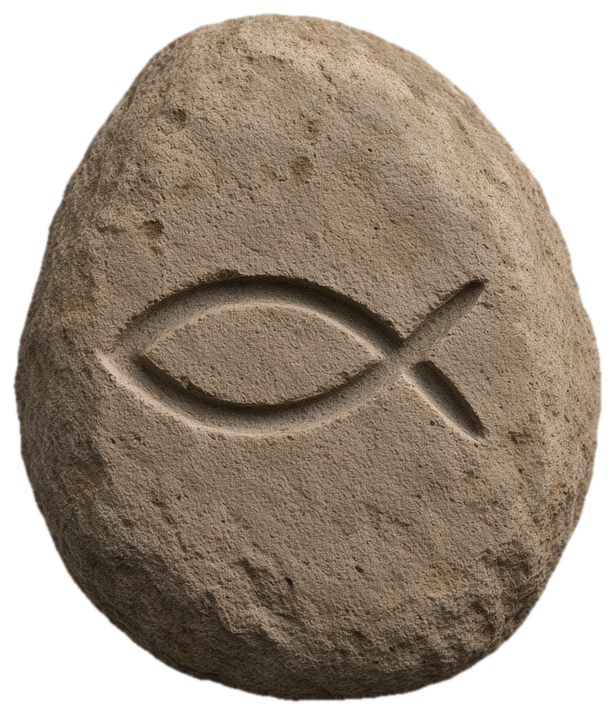
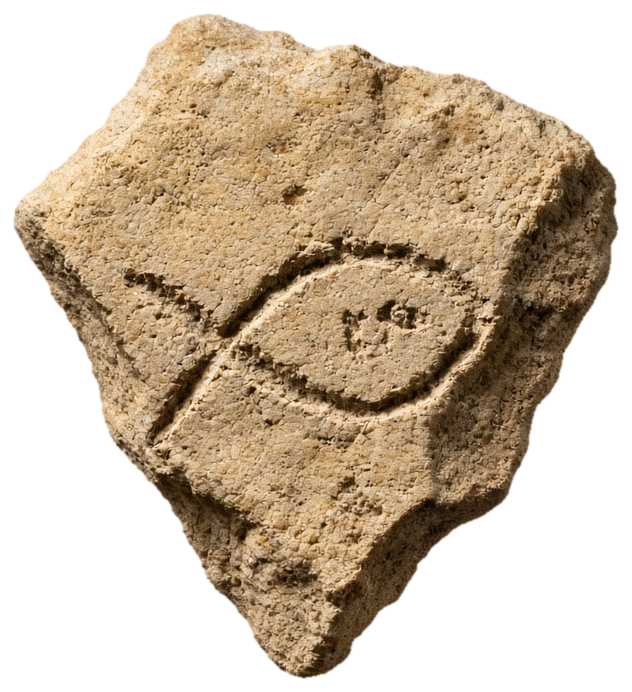
Artifacts: rock shard with crude fish

diff --git a/artifacts/index.html b/artifacts/index.html
@@ -19,7 +19,7 @@ html,body{margin:0;height:100%;background:#0e0e0e;overflow:hidden;overscroll-beh
   filter:brightness(var(--b,1)) drop-shadow(0 6px 8px rgba(0,0,0,.6)) drop-shadow(0 1px 2px rgba(0,0,0,.7));transition:filter .45s ease}
 .art.held .face img{filter:brightness(var(--b,1)) drop-shadow(0 22px 22px rgba(0,0,0,.65)) drop-shadow(0 6px 6px rgba(0,0,0,.45))}
 </style></head><body>
-<div id="board"><div class="art" id="art"><div class="bob"><div class="face"><img id="img" src="fish.png" alt="Carved limestone pebble with a fish symbol" draggable="false"></div></div></div></div>
+<div id="board"><div class="art" id="art"><div class="bob"><div class="face"><img id="img" src="fish.png" alt="Rock shard with a fish symbol scratched into it" draggable="false"></div></div></div></div>
 <script>
 (function(){
 var board=document.getElementById('board'),el=document.getElementById('art'),img=document.getElementById('img');
